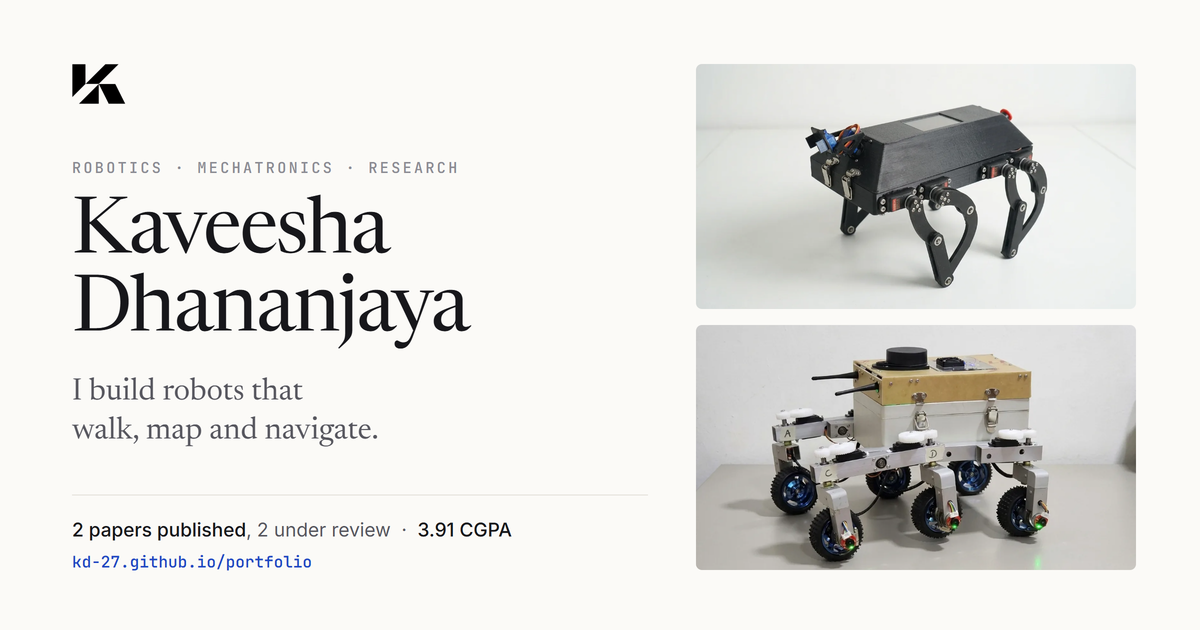
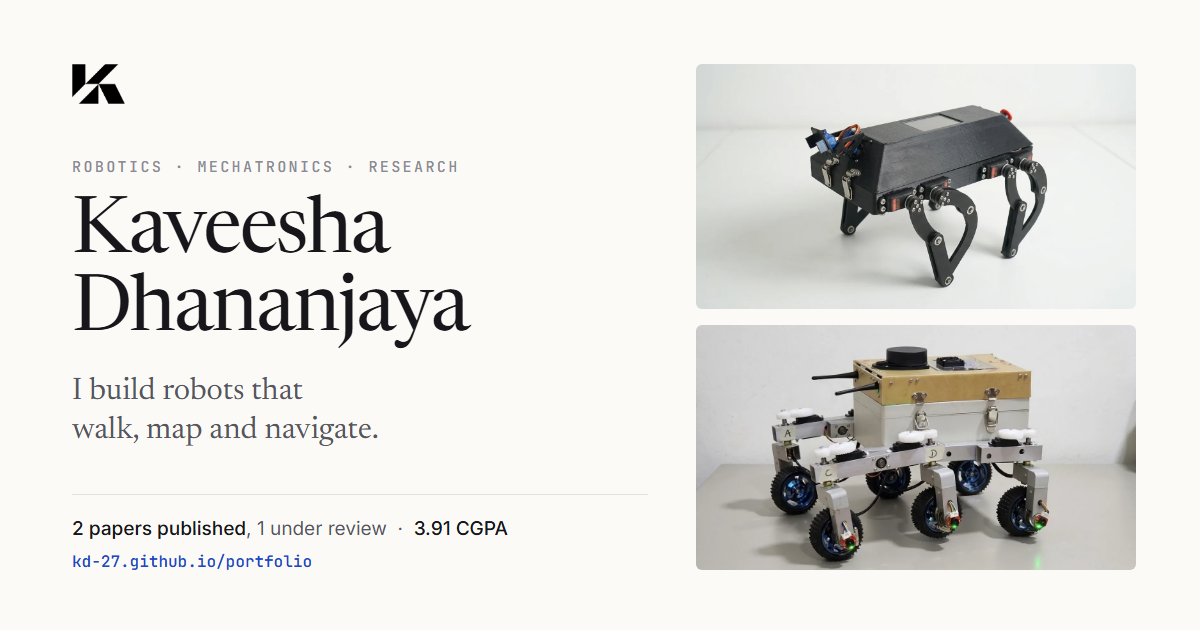
Drop rejected IJCAS quadruped paper; 1 under review
Remove the paper card, CV entry, and update the og-card count.
Rebuild resume.pdf and og-card.png.

diff --git a/src/constants.ts b/src/constants.ts
@@ -542,25 +542,6 @@ export const RESEARCH_PAPERS: ResearchPaper[] = [
     tags: ['Multimodal Grasping', '6D Grasp Planning', 'Waste Sorting']
   },
   {
-    id: 'p1',
-    title: 'Design & Development of a Quadruped Robot for Inspection in Human-Inaccessible Structured Areas',
-    abstract: 'Quadruped robot platforms are attractive for inspection in human-inaccessible environments, but many focus on complex and dynamic locomotion with control rather than simple and reliable operation in structured environments. The aim of this study is to understand whether such a quadruped robot can be used as a practical inspection platform that can offer computationally efficient control and stable locomotion on flat terrains. To accomplish this goal, the robot was designed and developed using a five-bar parallel leg structure, and a geometric inverse kinematics method, adapted from a standard circle-circle intersection approach, was optimized for implementation on the embedded platform. Ten foot-trajectories were also compared for stability in this locomotion pattern. Experimental testing demonstrated that the robot could reach a linear velocity of 20 cm/s and rotational velocity of 30°/s, and that the optimized geometric inverse kinematics approach was able to work in real time. The results demonstrate the possibility of using the proposed parallel-leg quadruped for inspection tasks in structured, human-inaccessible spaces.',
-    image: `${import.meta.env.BASE_URL}research_papers/Quadruped_Robot.webp`,
-    link: '#',
-    publisher: 'International Journal of Control, Automation, and Systems (ICROS KIEE)',
-    venue: 'IJCAS',
-    authors: ['G. K. Dhananjaya', 'L. Wickramaarachchi', 'W. Silva', 'I. Naotunna', 'M. Dabare', 'S. Gaspe'],
-    contribution: 'First author: led the project, derived the inverse kinematics, wrote all the firmware and wrote the paper.',
-    date: 'Under Review',
-    summary: {
-      problem: 'Most quadrupeds target dynamic locomotion, not simple, reliable inspection in structured spaces.',
-      built: 'Five-bar parallel legs and a circle-intersection IK optimised to run on the embedded controller.',
-      result: 'Walks at 20 cm/s, turns at 30°/s, and solves its IK in real time on board.',
-      limitation: 'Tested on flat terrain only.'
-    },
-    tags: ['Five-bar parallel mechanism', 'Inverse kinematics', 'Quadruped robot', 'ROS2', 'Trajectory optimization']
-  },
-  {
     id: 'p2',
     title: 'Prediction of Coronary Artery Disease Using Artificial Neural Network',
     abstract: 'Machine learning techniques offer powerful tools for early prediction and diagnosis of Coronary Artery Disease (CAD), a major cause of global mortality, by analyzing complex medical data to recognize patterns that conventional methods might miss, potentially leading to timely interventions and reduced death rates. The objective of this study is to model an Artificial Neural Network for CAD diagnosis, achieving an accuracy of roughly 90%. The Synthetic Minority Over-sampling Technique was employed to address the problem of data imbalance. Leveraging the expertise of a cardiologist, we tuned the feature search to include key clinical characteristics only, such as basic demographics, clinical history, and diagnostic test results. This approach made the interpretations more feasible, and at the same time, improved the predictive efficiency of the model. Optimized tuning of the hyper parameters was done while designing the Artificial Neural Network and the use of dropout layers as an anti- over-fitting technique and batch normalization technique for stabilizing the training phase. To support the created model cross validation at a lower level named stratified k-fold cross validation was done. The model was accurate and reliable compared to conventional machine learning methods. Moreover, it was beneficial to combine clinical knowledge in qualitative feature reduction with the presented technical approach because it led to a more clinically pertinent and accurate model.',

diff --git a/media-originals/og/card.html b/media-originals/og/card.html
@@ -23,7 +23,7 @@ h1{margin-top:20px;font:400 78px/1.0 'Newsreader',serif;letter-spacing:-.025em}
     <h1>Kaveesha<br>Dhananjaya</h1>
     <p class="tag">I build robots that<br>walk, map and navigate.</p>
     <div class="foot">
-      <p class="stats"><b>2 papers published</b>, 2 under review &nbsp;·&nbsp; <b>3.91 CGPA</b></p>
+      <p class="stats"><b>2 papers published</b>, 1 under review &nbsp;·&nbsp; <b>3.91 CGPA</b></p>
       <p class="url">kd-27.github.io/portfolio</p>
     </div>
   </div>

diff --git a/media-originals/cv/Kaveesha_Dhananjaya_CV.tex b/media-originals/cv/Kaveesha_Dhananjaya_CV.tex
@@ -102,13 +102,6 @@ coordination.
 
 \textit{Under review}
 \begin{cvlist}
-  \item \textbf{G. K. Dhananjaya}, L. Wickramaarachchi, W. Silva, I. Naotunna,
-        M. Dabare, and S. Gaspe, ``Design and Development of a Quadruped
-        Robot for Inspection in Human-Inaccessible Structured Areas,''
-        \textit{International Journal of Control, Automation, and Systems}
-        (ICROS / KIEE). Under review.\\
-        \textit{First author: led the project, derived the inverse kinematics,
-        wrote all the firmware and wrote the paper.}
   \item M. Thilakarathna, \textbf{G. K. Dhananjaya}, A. Wijesinghe, M. Vaszilijevics,
         E. Hood, and D. Herath, ``FusionGrasp: A
         Modular Framework for Integrating Heterogeneous 6D Grasp Planners for
